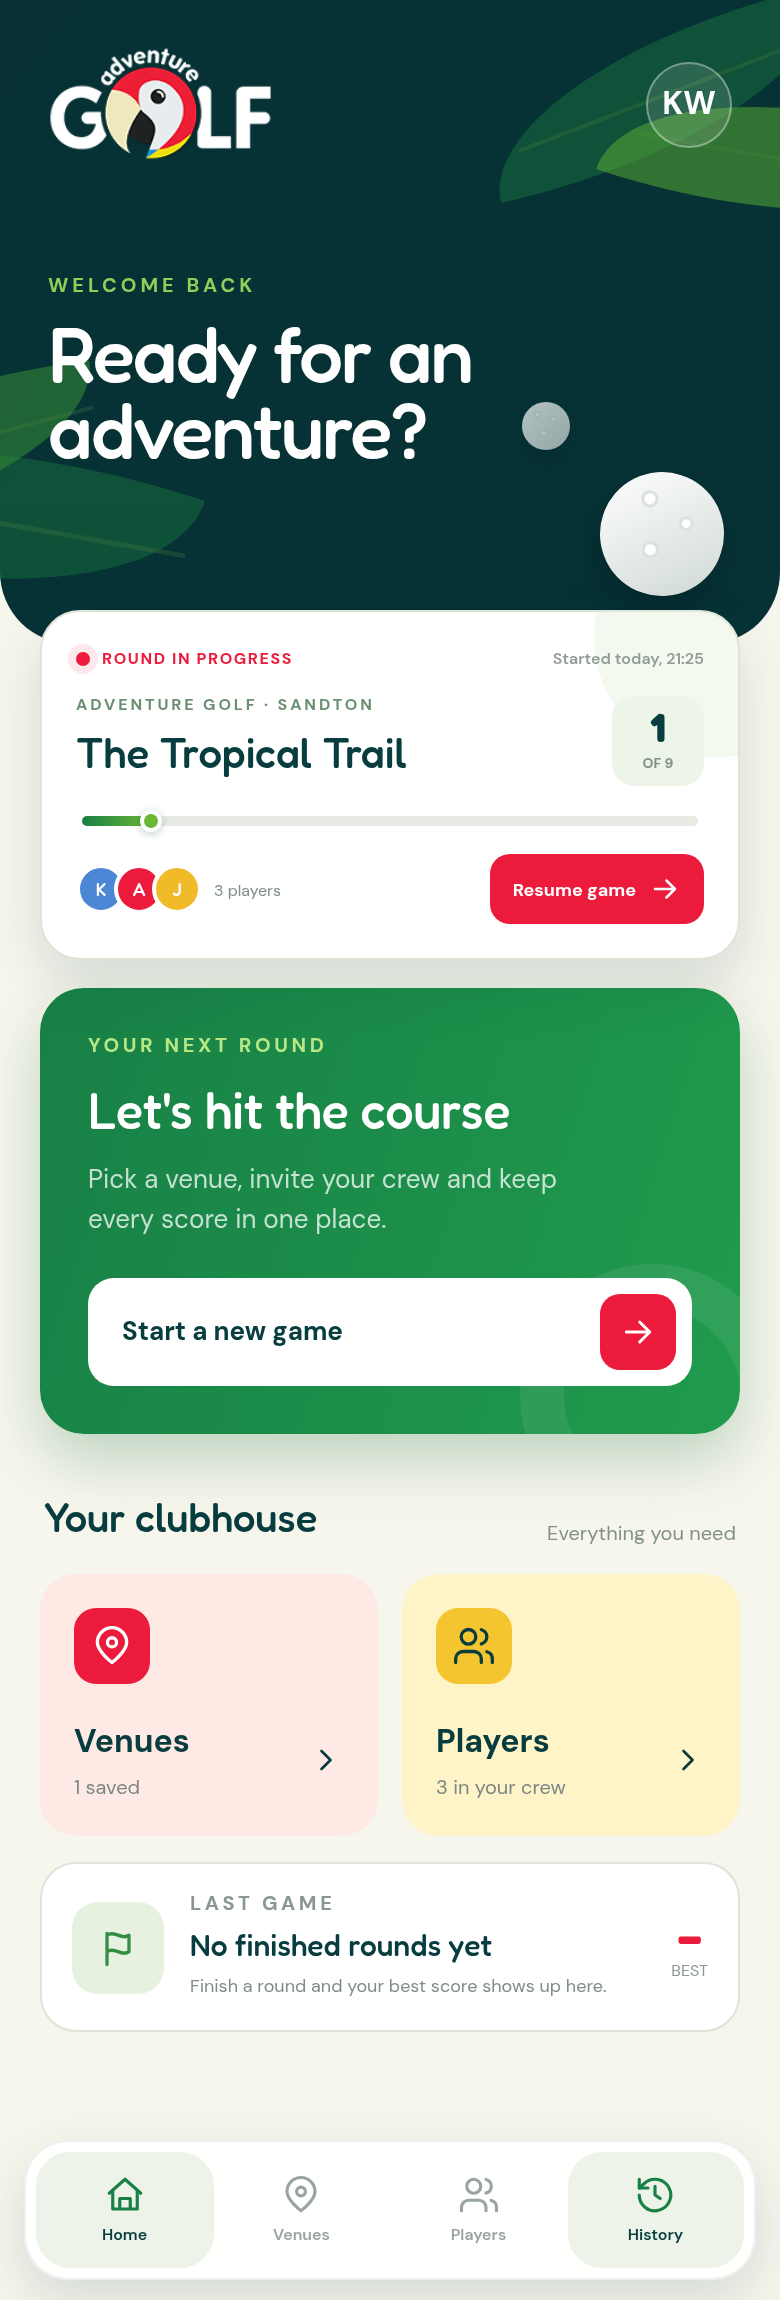
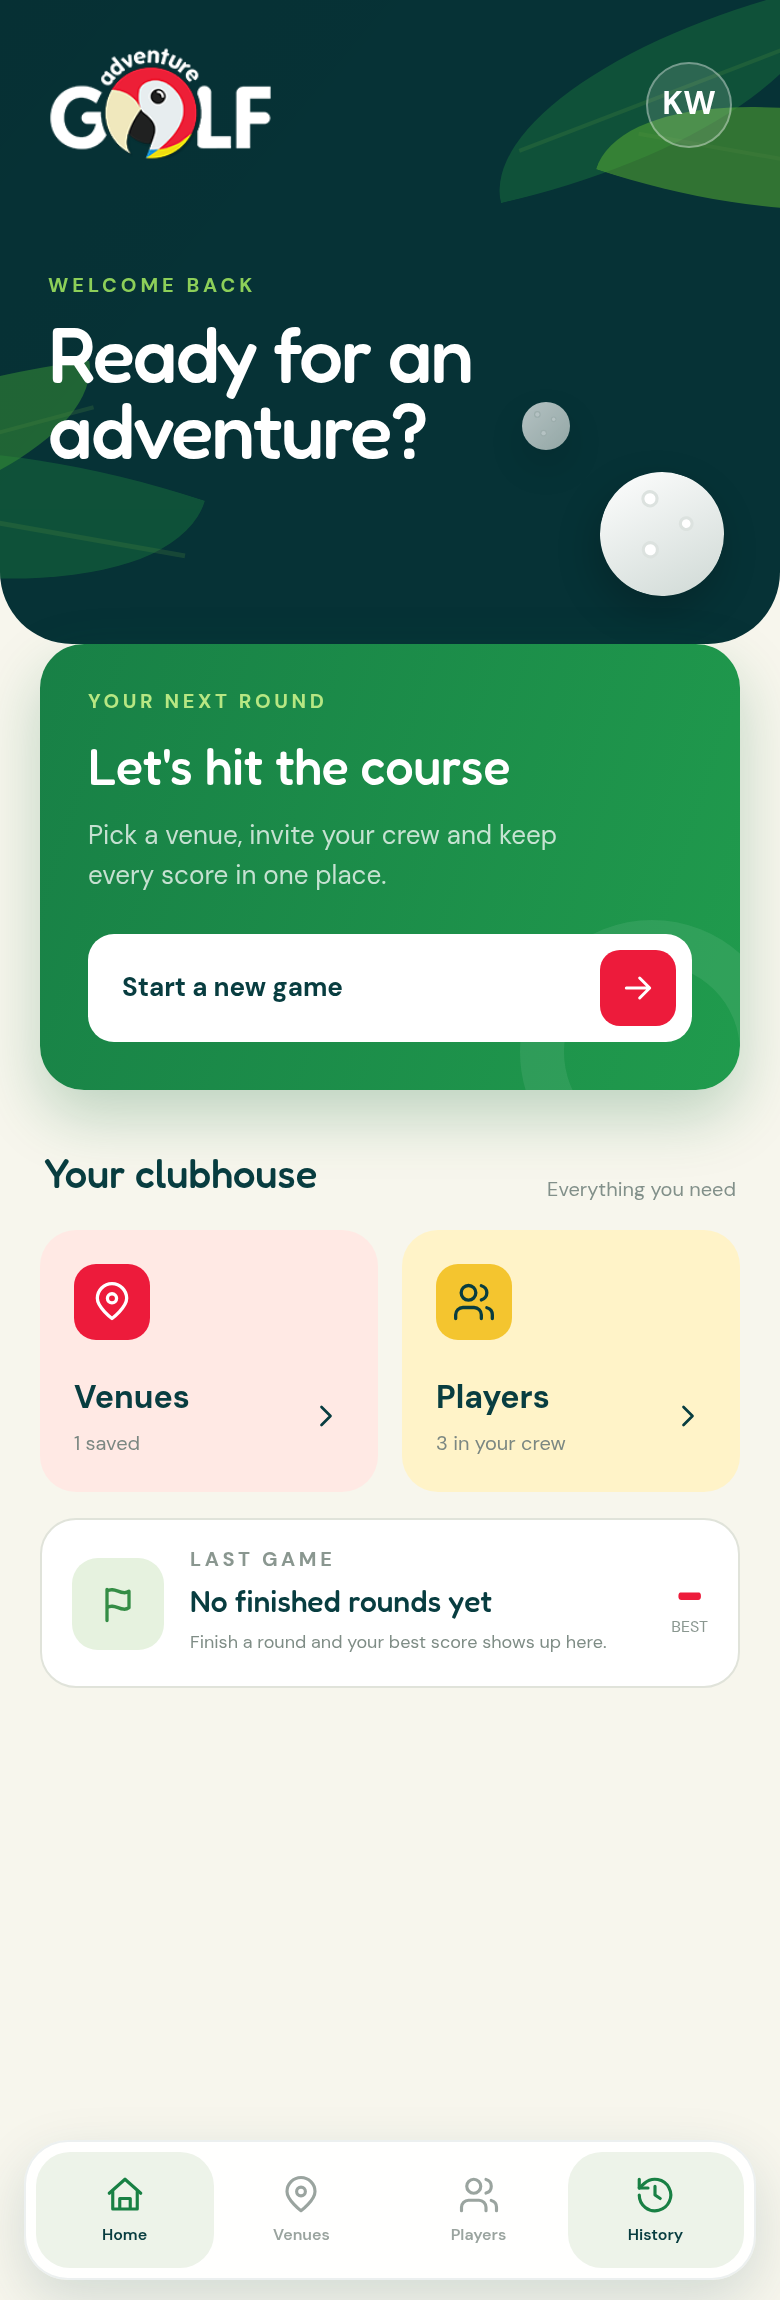
Onboarding: Create finishes without starting a game
- Crew step button is now "Create"; it only marks onboarding complete (players are already
  saved) and opens the complete screen. finishOnboarding() no longer starts a game.
- Onboarding Complete recaps what was created: venue (name, address, photo), course (name,
  photo, holes, total par) and crew (avatars + count); Home then shows no round in progress
- Walkthrough checks and onboarding screenshots updated; onboarding-07-first-game removed

diff --git a/src/app/onboarding/complete.tsx b/src/app/onboarding/complete.tsx
@@ -1,3 +1,4 @@
+import { Image } from 'expo-image';
 import { LinearGradient } from 'expo-linear-gradient';
 import { router } from 'expo-router';
 import { ScrollView, StyleSheet, View } from 'react-native';
@@ -5,6 +6,7 @@ import Animated, { FadeInDown } from 'react-native-reanimated';
 import { useSafeAreaInsets } from 'react-native-safe-area-context';
 
 import { Eyebrow } from '@/components/Eyebrow';
+import { Icon } from '@/components/Icon';
 import { GolfBall } from '@/components/GolfBall';
 import { LeafDecoration } from '@/components/LeafDecoration';
 import { Logo } from '@/components/Logo';
@@ -14,20 +16,20 @@ import { PlayerAvatar } from '@/components/PlayerAvatar';
 import { Text } from '@/components/Text';
 import { WideCta } from '@/components/WideCta';
 import { useDbQuery } from '@/db/hooks';
-import { getLiveGame, getOwner } from '@/db/queries';
+import { getOnboardingState } from '@/db/queries';
 import { totalPar } from '@/lib/game';
 import { firstName } from '@/lib/players';
-import { BRAND, colors, fonts } from '@/theme';
+import { colors, fonts } from '@/theme';
 
-/** Celebration shown once, right after "Start game" on the last onboarding step. */
+/** Celebration shown once, right after "Create" on the last onboarding step: recaps what was set up. */
 export default function OnboardingCompleteScreen() {
   const insets = useSafeAreaInsets();
-  const { data } = useDbQuery(async () => {
-    const [owner, game] = await Promise.all([getOwner(), getLiveGame()]);
-    return { owner, game };
-  });
+  // The venue/course created during onboarding are remembered in app_meta.
+  const { data } = useDbQuery(getOnboardingState);
   const name = firstName(data?.owner?.name);
-  const game = data?.game;
+  const venue = data?.venue;
+  const course = data?.course;
+  const crew = data?.crew ?? [];
 
   return (
     <View style={styles.screen}>
@@ -55,36 +57,71 @@ export default function OnboardingCompleteScreen() {
           <Eyebrow style={{ marginBottom: 9, color: '#90ce5e', textAlign: 'center' }}>ONBOARDING COMPLETE</Eyebrow>
           <Text style={styles.title}>{data ? `You're all set,\n${name || 'golfer'}!` : ' '}</Text>
           <Text style={styles.subtitle}>
-            Welcome to the club. Your clubhouse is ready and your first round is waiting on the first tee.
+            Welcome to the club. Your clubhouse is ready: here&apos;s everything you just created.
           </Text>
         </Animated.View>
 
-        {game ? (
+        {data ? (
           <Animated.View entering={FadeInDown.duration(500).delay(320)} style={styles.card}>
-            <View style={styles.cardTop}>
-              <View style={styles.status}>
-                <View style={styles.statusDot} />
-                <Text style={styles.statusText}>FIRST ROUND READY</Text>
-              </View>
-            </View>
-            <Eyebrow style={{ fontSize: 8, color: '#6c8f71', marginBottom: 5 }}>
-              {`${BRAND} · ${game.course.venue.name}`.toUpperCase()}
-            </Eyebrow>
-            <Text style={styles.cardTitle}>{game.course.name}</Text>
-            <View style={styles.stats}>
-              <Stat value={game.course.holes.length} label="HOLES" />
-              <Stat value={totalPar(game.course.holes)} label="PAR" />
-              <Stat value={game.gamePlayers.length} label={game.gamePlayers.length === 1 ? 'PLAYER' : 'PLAYERS'} />
-            </View>
-            <View style={styles.crew}>
-              {game.gamePlayers.map(({ player }, index) => (
-                <View key={player.id} style={styles.crewMember}>
-                  <PlayerAvatar player={player} index={index} size={30} />
-                  <Text style={styles.crewName} numberOfLines={1}>
-                    {player.isOwner ? 'You' : player.name}
-                  </Text>
+            {venue ? (
+              <View>
+                {venue.image ? (
+                  <Image source={{ uri: venue.image }} style={styles.venuePhoto} contentFit="cover" accessibilityLabel="Venue photo" />
+                ) : null}
+                <View style={styles.section}>
+                  <View style={[styles.sectionIcon, { backgroundColor: colors.green }]}>
+                    <Icon name="pin" color="#fff" />
+                  </View>
+                  <View style={{ flex: 1, minWidth: 0 }}>
+                    <Text style={styles.kicker}>YOUR VENUE</Text>
+                    <Text style={styles.cardTitle} numberOfLines={2}>
+                      {venue.name}
+                    </Text>
+                    {venue.address ? <Text style={styles.cardSub}>{venue.address}</Text> : null}
+                  </View>
                 </View>
-              ))}
+              </View>
+            ) : null}
+
+            {course ? (
+              <View style={[styles.section, styles.divided]}>
+                <View style={[styles.sectionIcon, { backgroundColor: colors.yellow }]}>
+                  {course.image ? (
+                    <Image source={{ uri: course.image }} style={styles.thumb} contentFit="cover" accessibilityLabel="Course photo" />
+                  ) : (
+                    <Icon name="flag" />
+                  )}
+                </View>
+                <View style={{ flex: 1, minWidth: 0 }}>
+                  <Text style={styles.kicker}>YOUR COURSE</Text>
+                  <Text style={styles.cardTitle} numberOfLines={2}>
+                    {course.name}
+                  </Text>
+                  <View style={styles.stats}>
+                    <Stat value={course.holes.length} label="HOLES" />
+                    <Stat value={totalPar(course.holes)} label="TOTAL PAR" />
+                  </View>
+                </View>
+              </View>
+            ) : null}
+
+            <View style={styles.divided}>
+              <View style={styles.crewHeading}>
+                <Text style={styles.kicker}>YOUR CREW</Text>
+                <Text style={styles.crewCount}>
+                  {crew.length} {crew.length === 1 ? 'PLAYER' : 'PLAYERS'}
+                </Text>
+              </View>
+              <View style={styles.crew}>
+                {crew.map((player, index) => (
+                  <View key={player.id} style={styles.crewMember}>
+                    <PlayerAvatar player={player} index={index} size={34} />
+                    <Text style={styles.crewName} numberOfLines={1}>
+                      {player.isOwner ? 'You' : player.name}
+                    </Text>
+                  </View>
+                ))}
+              </View>
             </View>
           </Animated.View>
         ) : null}
@@ -123,27 +160,34 @@ const styles = StyleSheet.create({
   // Same white card treatment as the Home "round in progress" card.
   card: {
     marginTop: 24,
-    padding: 18,
+    overflow: 'hidden',
     borderRadius: 20,
     backgroundColor: '#fff',
     boxShadow: '0 18px 40px rgba(0, 0, 0, 0.22)',
   },
-  cardTop: { flexDirection: 'row', marginBottom: 13 },
-  status: { flexDirection: 'row', alignItems: 'center', gap: 6 },
-  statusDot: {
-    width: 7,
-    height: 7,
-    borderRadius: 4,
-    backgroundColor: colors.red,
-    boxShadow: '0 0 0 4px rgba(237, 27, 59, 0.1)',
+  venuePhoto: { width: '100%', aspectRatio: 16 / 7, backgroundColor: '#e9f1e5' },
+  section: { flexDirection: 'row', alignItems: 'flex-start', gap: 13, padding: 17 },
+  divided: { marginHorizontal: 17, paddingHorizontal: 0, paddingVertical: 15, borderTopWidth: 1, borderTopColor: '#edf0ea' },
+  // Icon tiles from the Setup venue/course cards.
+  sectionIcon: {
+    width: 45,
+    height: 45,
+    alignItems: 'center',
+    justifyContent: 'center',
+    overflow: 'hidden',
+    borderRadius: 13,
   },
-  statusText: { color: colors.red, fontSize: 8, fontFamily: fonts.bodyBold, letterSpacing: 0.8 },
-  cardTitle: { color: colors.ink, fontFamily: fonts.display, fontSize: 22 },
-  stats: { flexDirection: 'row', gap: 8, marginTop: 14 },
-  stat: { flex: 1, alignItems: 'center', paddingVertical: 9, borderRadius: 12, backgroundColor: '#edf4e8' },
-  statValue: { color: colors.ink, fontFamily: fonts.displayBold, fontSize: 22, lineHeight: 26 },
+  thumb: { width: '100%', height: '100%' },
+  kicker: { color: colors.green, fontSize: 8, lineHeight: 12, fontFamily: fonts.bodyBold, letterSpacing: 1.2 },
+  cardTitle: { color: colors.ink, fontFamily: fonts.display, fontSize: 20, lineHeight: 26 },
+  cardSub: { marginTop: 1, color: '#8c9992', fontSize: 10, fontFamily: fonts.body },
+  stats: { flexDirection: 'row', gap: 8, marginTop: 9 },
+  stat: { flex: 1, alignItems: 'center', paddingVertical: 7, borderRadius: 11, backgroundColor: '#edf4e8' },
+  statValue: { color: colors.ink, fontFamily: fonts.displayBold, fontSize: 20, lineHeight: 24 },
   statLabel: { color: '#7f8e86', fontSize: 7, lineHeight: 10, fontFamily: fonts.bodyBold, letterSpacing: 1 },
-  crew: { flexDirection: 'row', flexWrap: 'wrap', gap: 12, marginTop: 15 },
-  crewMember: { alignItems: 'center', gap: 4, width: 46 },
-  crewName: { maxWidth: 46, color: '#5f6f67', fontSize: 9, fontFamily: fonts.bodySemi },
+  crewHeading: { flexDirection: 'row', justifyContent: 'space-between', alignItems: 'center' },
+  crewCount: { color: '#7b8c83', fontSize: 8, lineHeight: 12, fontFamily: fonts.bodyBold, letterSpacing: 0.8 },
+  crew: { flexDirection: 'row', flexWrap: 'wrap', gap: 12, marginTop: 11 },
+  crewMember: { alignItems: 'center', gap: 4, width: 48 },
+  crewName: { maxWidth: 48, color: '#5f6f67', fontSize: 9, fontFamily: fonts.bodySemi },
 });

diff --git a/src/components/onboarding/steps/CrewStep.tsx b/src/components/onboarding/steps/CrewStep.tsx
@@ -13,15 +13,15 @@ import { colors, fonts, MAX_PLAYERS } from '@/theme';
 
 /**
  * Step 4: build the crew. Players are written to SQLite as soon as they are added/removed,
- * and "Start game" starts a real round on the onboarding course with everyone listed.
+ * and "Create" just finishes onboarding (no game is started).
  */
 export function CrewStep({
   state,
-  onStart,
+  onCreate,
   topBar,
 }: {
   state: OnboardingState;
-  onStart: (playerIds: number[]) => void;
+  onCreate: () => void;
   topBar: React.ReactNode;
 }) {
   const crew = state.crew;
@@ -45,7 +45,7 @@ export function CrewStep({
       total={4}
       eyebrow="YOUR CREW"
       title="Who's playing?"
-      subtitle={`Add the friends and family joining you on ${state.course?.name ?? 'your course'}.`}
+      subtitle={`Add the friends and family you play ${state.course?.name ?? 'your course'} with.`}
     >
       <View style={styles.count}>
         <Text style={styles.countText}>{crew.length} {crew.length === 1 ? 'PLAYER' : 'PLAYERS'}</Text>
@@ -114,10 +114,10 @@ export function CrewStep({
       <Text style={styles.note}>
         {crew.length === 1
           ? 'Playing solo? That works too. You can always add players later.'
-          : `Turn order follows this list. Everyone tees off on hole 1.`}
+          : 'You can choose who plays each time you start a round.'}
       </Text>
 
-      <WideCta label="Start game" disabled={!state.course || crew.length === 0} onPress={() => onStart(crew.map((p) => p.id))} />
+      <WideCta label="Create" disabled={!state.course} onPress={onCreate} />
     </StepPage>
   );
 }

diff --git a/src/app/onboarding/index.tsx b/src/app/onboarding/index.tsx
@@ -68,9 +68,9 @@ function OnboardingPager({ state }: { state: OnboardingState }) {
     goTo(next);
   };
 
-  const start = (playerIds: number[]) => {
+  const create = () => {
     if (!state.course) return;
-    finishOnboarding(state.course.id, playerIds);
+    finishOnboarding();
     router.replace('/onboarding/complete');
   };
 
@@ -141,7 +141,7 @@ function OnboardingPager({ state }: { state: OnboardingState }) {
     <OwnerStep key="owner" state={state} topBar={topBar(0)} onSaved={() => advance(0)} />,
     <VenueStep key="venue" state={state} topBar={topBar(1)} onSaved={() => advance(1)} />,
     <CourseStep key="course" state={state} topBar={topBar(2)} onSaved={() => advance(2)} />,
-    <CrewStep key="crew" state={state} topBar={topBar(3)} onStart={start} />,
+    <CrewStep key="crew" state={state} topBar={topBar(3)} onCreate={create} />,
   ];
 
   return (

diff --git a/src/db/queries.ts b/src/db/queries.ts
@@ -289,10 +289,11 @@ export function saveCourse(values: {
   return course;
 }
 
-/** Step 4: start the first round with the whole crew and mark onboarding complete. */
-export function finishOnboarding(courseId: number, playerIds: number[]) {
-  const game = startGame(courseId, playerIds);
+/**
+ * Step 4 "Create": everything (owner, venue, course, crew) is already saved, so this only marks
+ * onboarding complete. No game is created; Home starts with no round in progress.
+ */
+export function finishOnboarding() {
   setMeta('onboarding', 'complete');
   notifyDbChanged();
-  return game;
 }

diff --git a/README.md b/README.md
@@ -29,7 +29,7 @@ src/app/              Expo Router screens
   index.tsx           Home (live round, start CTA, clubhouse, last game); redirects to
                       onboarding while no owner exists / onboarding is unfinished
   onboarding/index.tsx  first-run carousel: owner -> venue -> course -> crew (reanimated pager)
-  onboarding/complete.tsx  celebration screen (confetti, bouncing ball) -> Home
+  onboarding/complete.tsx  celebration + recap of venue/course/crew (confetti, ball) -> Home
   setup.tsx           New game: venue, course, per-hole par editor
   players.tsx         New game step 2, Who's playing: tap to select / add / remove players,
                       start the round (prototype behaviour)
@@ -91,9 +91,9 @@ owner is saved). Each step's primary button writes through Drizzle and slides to
 you can go back (button, swipe, Android back) but never swipe past the first unsaved step.
 The venue/course created are remembered in `app_meta` (`onboarding_venue_id`,
 `onboarding_course_id`), so going back and saving again updates them, and relaunching mid-way
-reopens on the first unsaved step. "Start game" creates a real in-progress game on the new
-course with everyone on the crew list and marks onboarding complete, so Home shows it under
-"Round in progress".
+reopens on the first unsaved step. The last step's "Create" button only marks onboarding
+complete (no game is created) and shows a recap of the venue, course and crew; Home then has
+no round in progress.
 
 ## expo-sqlite web patch
 
